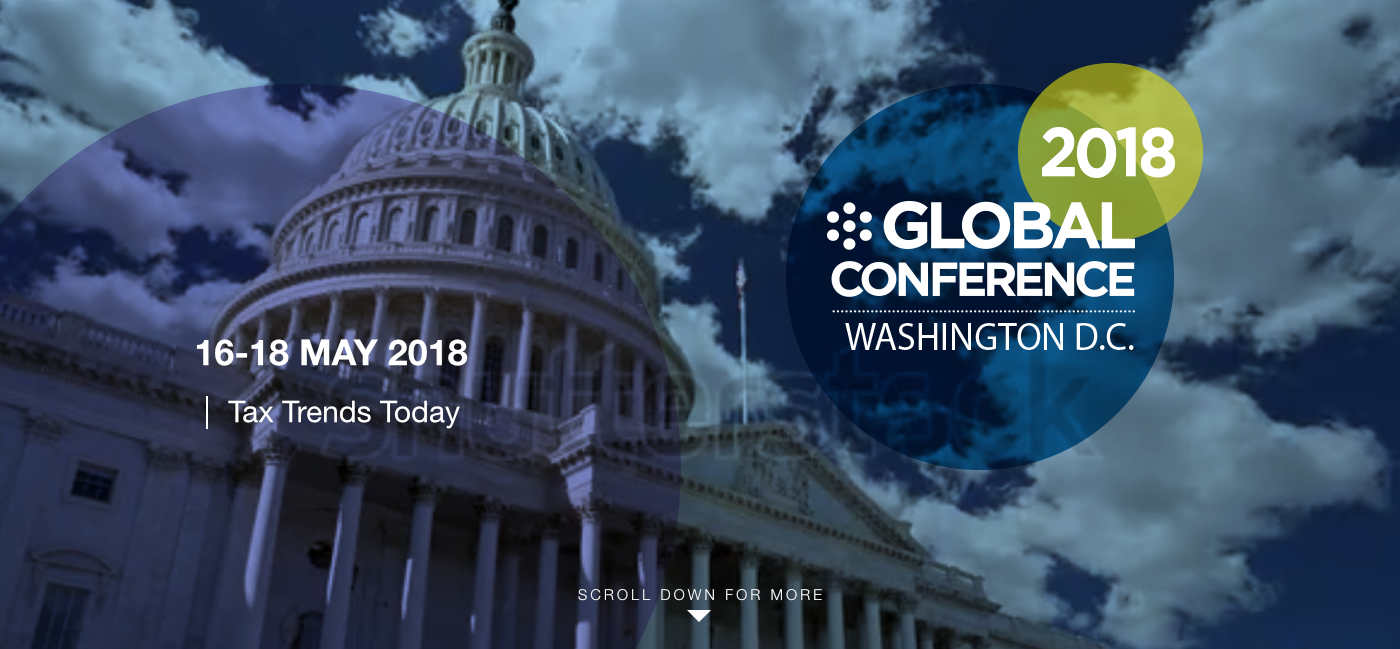
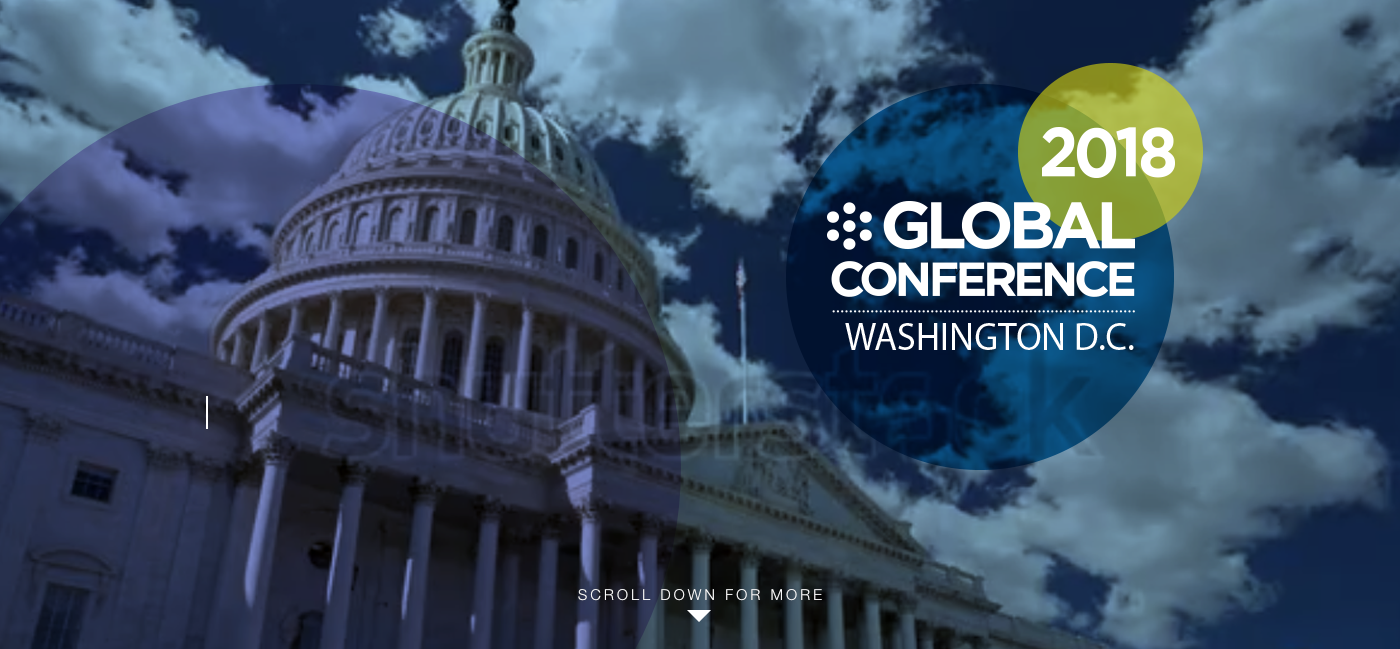
Adding poster to video tag

Changed region(s): [[0.1229, 0.5239, 0.3379, 0.5855], [0.1536, 0.6163, 0.3379, 0.6471]]

diff --git a/index.html b/index.html
@@ -52,7 +52,7 @@
     <!-- Start homepage content -->
 
         <div class="fullscreen-bg">
-            <video loop muted autoplay class="fullscreen-bg__video">
+            <video loop muted autoplay class="fullscreen-bg__video" poster="./images/hero.png">
                 <source src="./assets/overlay.webm" type="video/webm">
                 <source src="./assets/overlay.mp4" type="video/mp4">
                 <source src="./assets/overlay.mov" type="video/mov">
